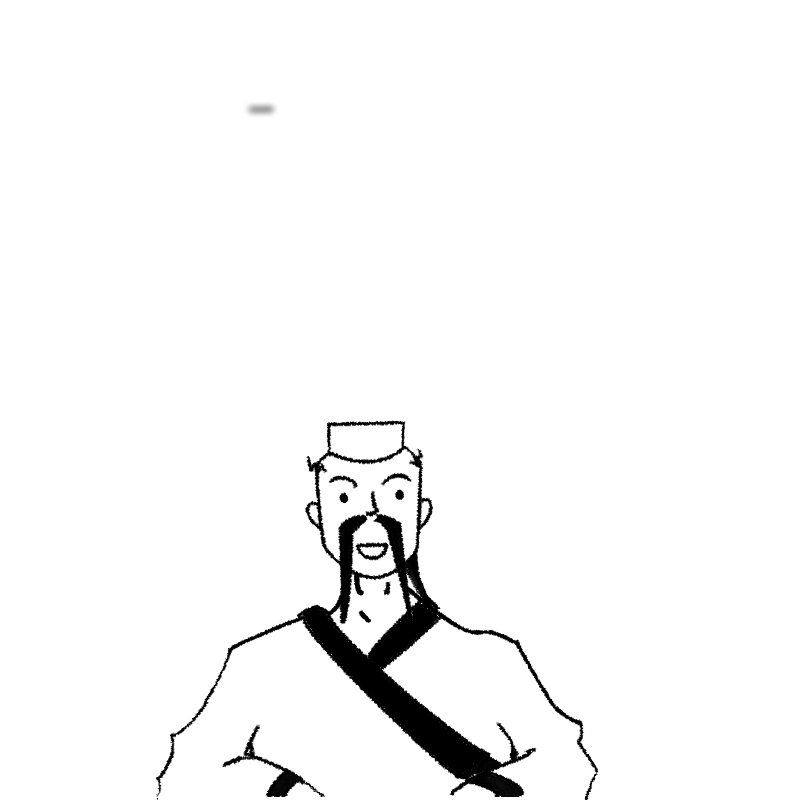
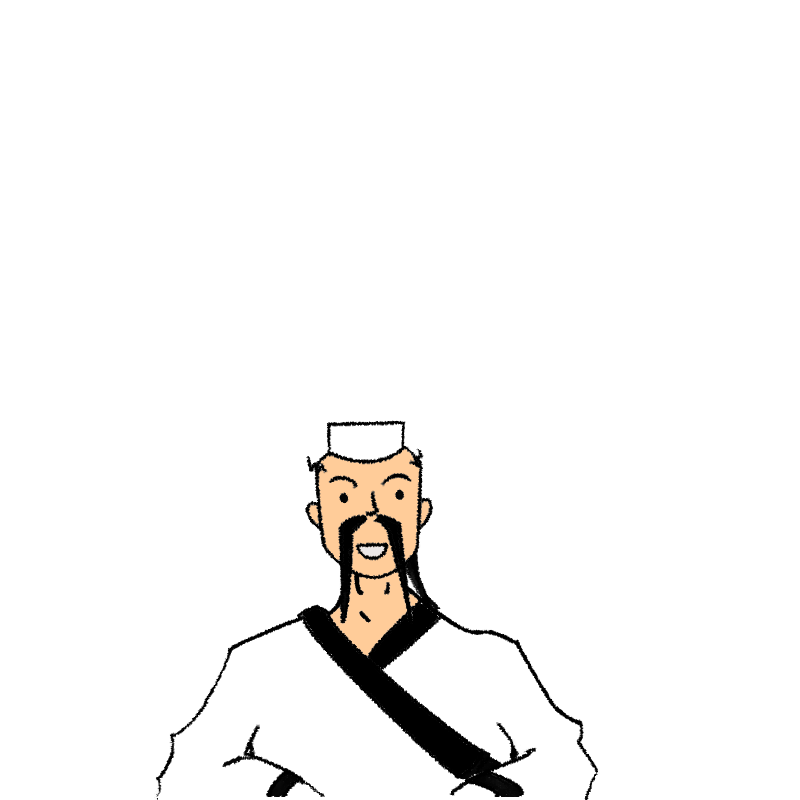
HUGE commit, colored chinese man, added hand movement

Changed region(s): [[0.375, 0.5625, 0.5312, 0.8125], [0.3125, 0.125, 0.3438, 0.1562]]

diff --git a/Hackathon/Hackathon/Hackathon/Game1.cs b/Hackathon/Hackathon/Hackathon/Game1.cs
@@ -24,6 +24,8 @@ namespace Hackathon
         Texture2D sushiSensei3;
         Texture2D sushiSensei4;
         Texture2D sushiSensei5;
+        Texture2D leftSlap;
+        Texture2D rightSlap;
         Texture2D leftTable;
         Texture2D rightTable;
         Texture2D actionBox;
@@ -101,6 +103,8 @@ namespace Hackathon
             sushiSensei3 = this.Content.Load<Texture2D>("Images/chinaman3");
             sushiSensei4 = this.Content.Load<Texture2D>("Images/chinaman4");
             sushiSensei5 = this.Content.Load<Texture2D>("Images/chinaman5");
+            leftSlap = this.Content.Load<Texture2D>("Images/left_slap");
+            rightSlap = this.Content.Load<Texture2D>("Images/right_slap");
             leftTable = this.Content.Load<Texture2D>("Images/leftTable");
             rightTable = this.Content.Load<Texture2D>("Images/rightTable");
             actionBox = this.Content.Load<Texture2D>("Images/actionBox");
@@ -358,6 +362,17 @@ namespace Hackathon
                 drawCenter(sushiSensei3, new Vector2(430, 250), Color.White);
             else
                 drawCenter(sushiSensei5, new Vector2(430, 250), Color.White);
+
+
+            if (leftStop)
+            {
+                drawCenter(leftSlap, new Vector2(430, 250), Color.White);
+            }
+
+            if (rightStop)
+            {
+                drawCenter(rightSlap, new Vector2(430, 250), Color.White);
+            }
             if (!gameEnd)
             {
                 drawCenter(logo, new Vector2(400, 570), Color.White);
